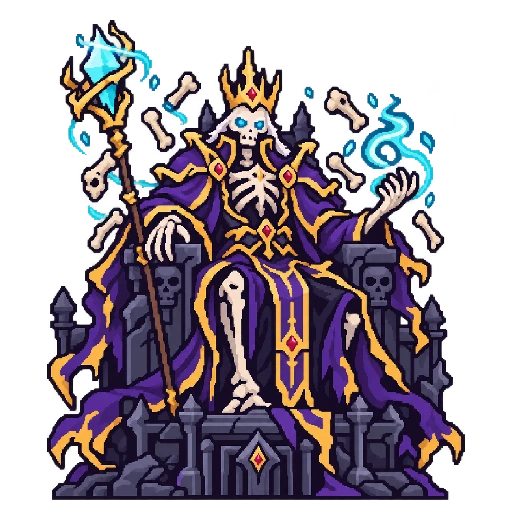
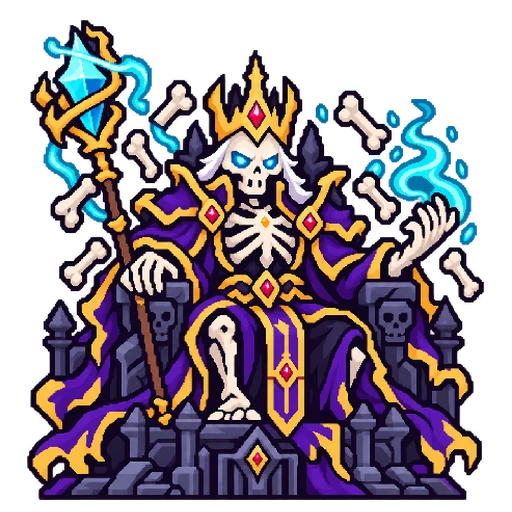
보스 8종 그림을 치비 팩 v2로 교체 (v0.35.1)
boss_chibi_pack_v2의 평소 그림 8장을 원본으로 바꾸고 make_boss_sprites.py로 다시 맞춘다 (rage 그림은 쓰지 않음).

Claude-Session: https://claude.ai/code/session_014gChBYzVF9cfUwsBghVSK5

diff --git a/dice-heroes/config.js b/dice-heroes/config.js
@@ -3,6 +3,6 @@ export const GAME = {
   name: '요트 히어로즈',
   en: 'YACHT HEROES',
   studio: 'HAHAHOHO COMPANY',
-  version: '0.35.0',
+  version: '0.35.1',
   year: 2026,
 };

diff --git a/dice-heroes/README.md b/dice-heroes/README.md
@@ -267,7 +267,7 @@ export const BGM_FILES = { title: 'assets/bgm/title.ogg', adventure: 'assets/bgm
 | `skins.js` | 꾸미기: 주사위 스킨 9종(기본·오픈하츠·황금·미니멀·우주·블랙·투명·하트·키캡, 스킨별 굴림 소리) · 트레이 스킨 7종 (트레이는 캔버스로 그림, 유료 해금 자리 `isUnlocked`). 기본을 뺀 8종 주사위 면은 디자인 시트 한 장(`tools/dice-src/sheet-v2.webp`)에서 `tools/make_dice_from_sheet.py` 로 오려 `assets/dice/<스킨>/1~6.webp`(512px) 로 만든다 (v0.30) — 시트 한 칸이 약 110px 라 먼저 `tools/upscale_dice_sheet.py`(Real-ESRGAN x4)로 4배 키운 칸(`tools/dice-src/dice-hires/`)에서 오린다. 키캡은 시트의 사다리꼴 모양이 아니라 눈이 있는 윗면만 입힌다. 트레이는 기본(초록 펠트)을 빼고 7종(클래식·왕실·심해·마왕성·벚꽃·용암·은하)을 트레이 시트(`tools/dice-src/tray-sheet-v2.webp`)에서 `tools/make_trays_from_sheet.py` 로 오려 `assets/trays/<스킨>/{floor,glow,box,thumb}.webp` 로 쓴다 — 시트 한 칸이 약 200px 라 먼저 `tools/upscale_tray_sheet.py`(Real-ESRGAN x4, CPU)로 4배 키운 칸(`tools/dice-src/tray-hires/`)을 쓴다. 바닥은 10:6.4 라 문양을 지운 바탕을 가로로 늘리고 가운데 문양만 원래 비율로 다시 얹는다 (1200×768, 함 바닥 1536×264). 테두리·장식 색은 `skins.js` `IMAGE_TRAY`, 예전 코드 그림은 `TRAY_STYLE` 에 그대로 있다. 예전 코드 그림(하트·키캡·투명·미니멀)은 `drawDieFace` 에 남아 있어 `DIE_MAT` 의 `image: true` 만 지우면 되돌아간다. 바꾸기 직전 상태(v0.29.2)는 브랜치 `backup/dice-heroes-dice-v1` |
 | `dice3d.js` | 3D 주사위 트레이 (물리 궤적 녹화 → 결과 면 매핑 → 재생). 고정한 주사위는 굴릴 때 트레이 아래 나무 주사위 함으로 옮겨 가 굴리는 길을 막지 않는다 |
 | `audio.js` | 칩튠 시퀀서 · 효과음 · 음량 설정 (효과음이 묻히지 않게 채널 비율 + 배경음악 더킹). 협동모드 보스별 곡 `boss_dragon` · `boss_orc` · `boss_lich`, 음원 파일은 `BGM_FILES` → `assets/bgm/` |
-| `pixel.js` · `scenes.js` | 스프라이트(그림 파일 · 예전 도트)와 타이틀 장면. 보스 8종 그림(v0.35)은 원본(`tools/boss-src/<id>.webp`, 무손실)을 `tools/make_boss_sprites.py` 로 512px(같은 크기 · 같은 발밑 줄, 알파를 곱한 Lanczos 축소)에 맞춰 `assets/boss/<id>.webp` 로 쓴다. 분노는 그림을 바꾸지 않고 연출로만. 바꾸기 직전 그림은 브랜치 `backup/dice-heroes-boss-v1` |
+| `pixel.js` · `scenes.js` | 스프라이트(그림 파일 · 예전 도트)와 타이틀 장면. 보스 8종 그림(v0.35, 치비판 v0.35.1)은 원본(`tools/boss-src/<id>.webp`, 무손실)을 `tools/make_boss_sprites.py` 로 512px(같은 크기 · 같은 발밑 줄, 알파를 곱한 Lanczos 축소)에 맞춰 `assets/boss/<id>.webp` 로 쓴다. 분노는 그림을 바꾸지 않고 연출로만. 바꾸기 직전 그림은 브랜치 `backup/dice-heroes-boss-v1` |
 | `tutorial.js` | 튜토리얼 대본(단계·강조 대상·허용 동작·완료 조건) |
 | `style.css` | 도트 프레임 · 픽셀 서체 스타일 |
 | `manifest.webmanifest` · `sw.js` · `icons/` | 설치형 앱(PWA/TWA). 앱 아이콘은 `python3 tools/make_icons.py build 1 <Galmuri11-Bold.ttf>` 로 만든다 (후보 6종 · `sheet` 로 모아 보기, 지금은 1번 「영웅의 일격」) |
